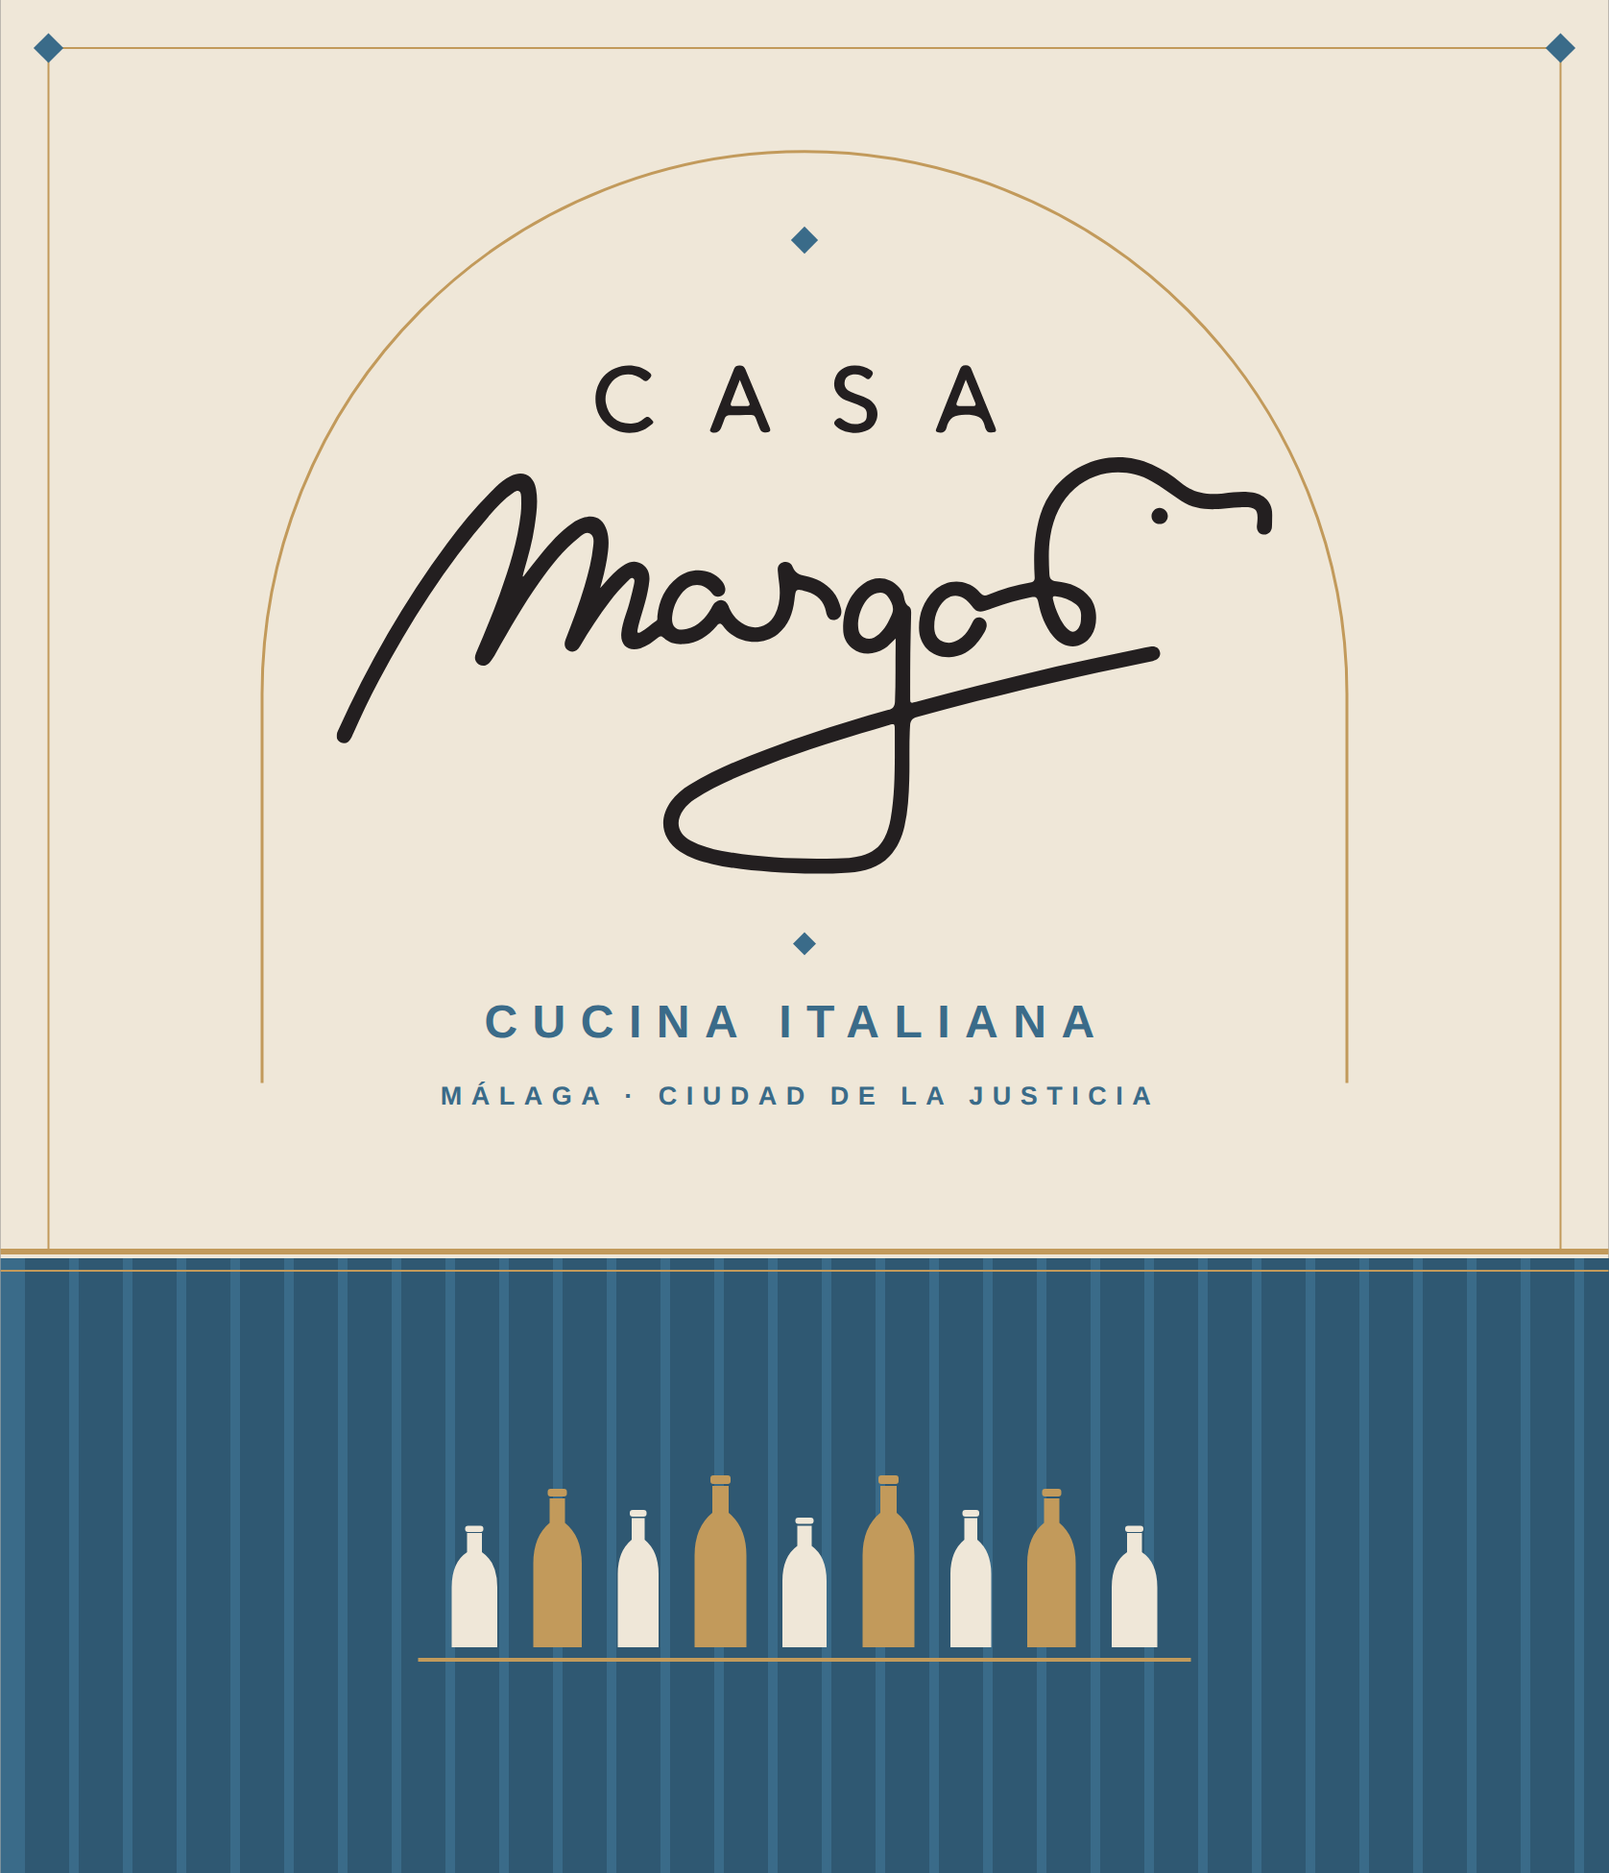
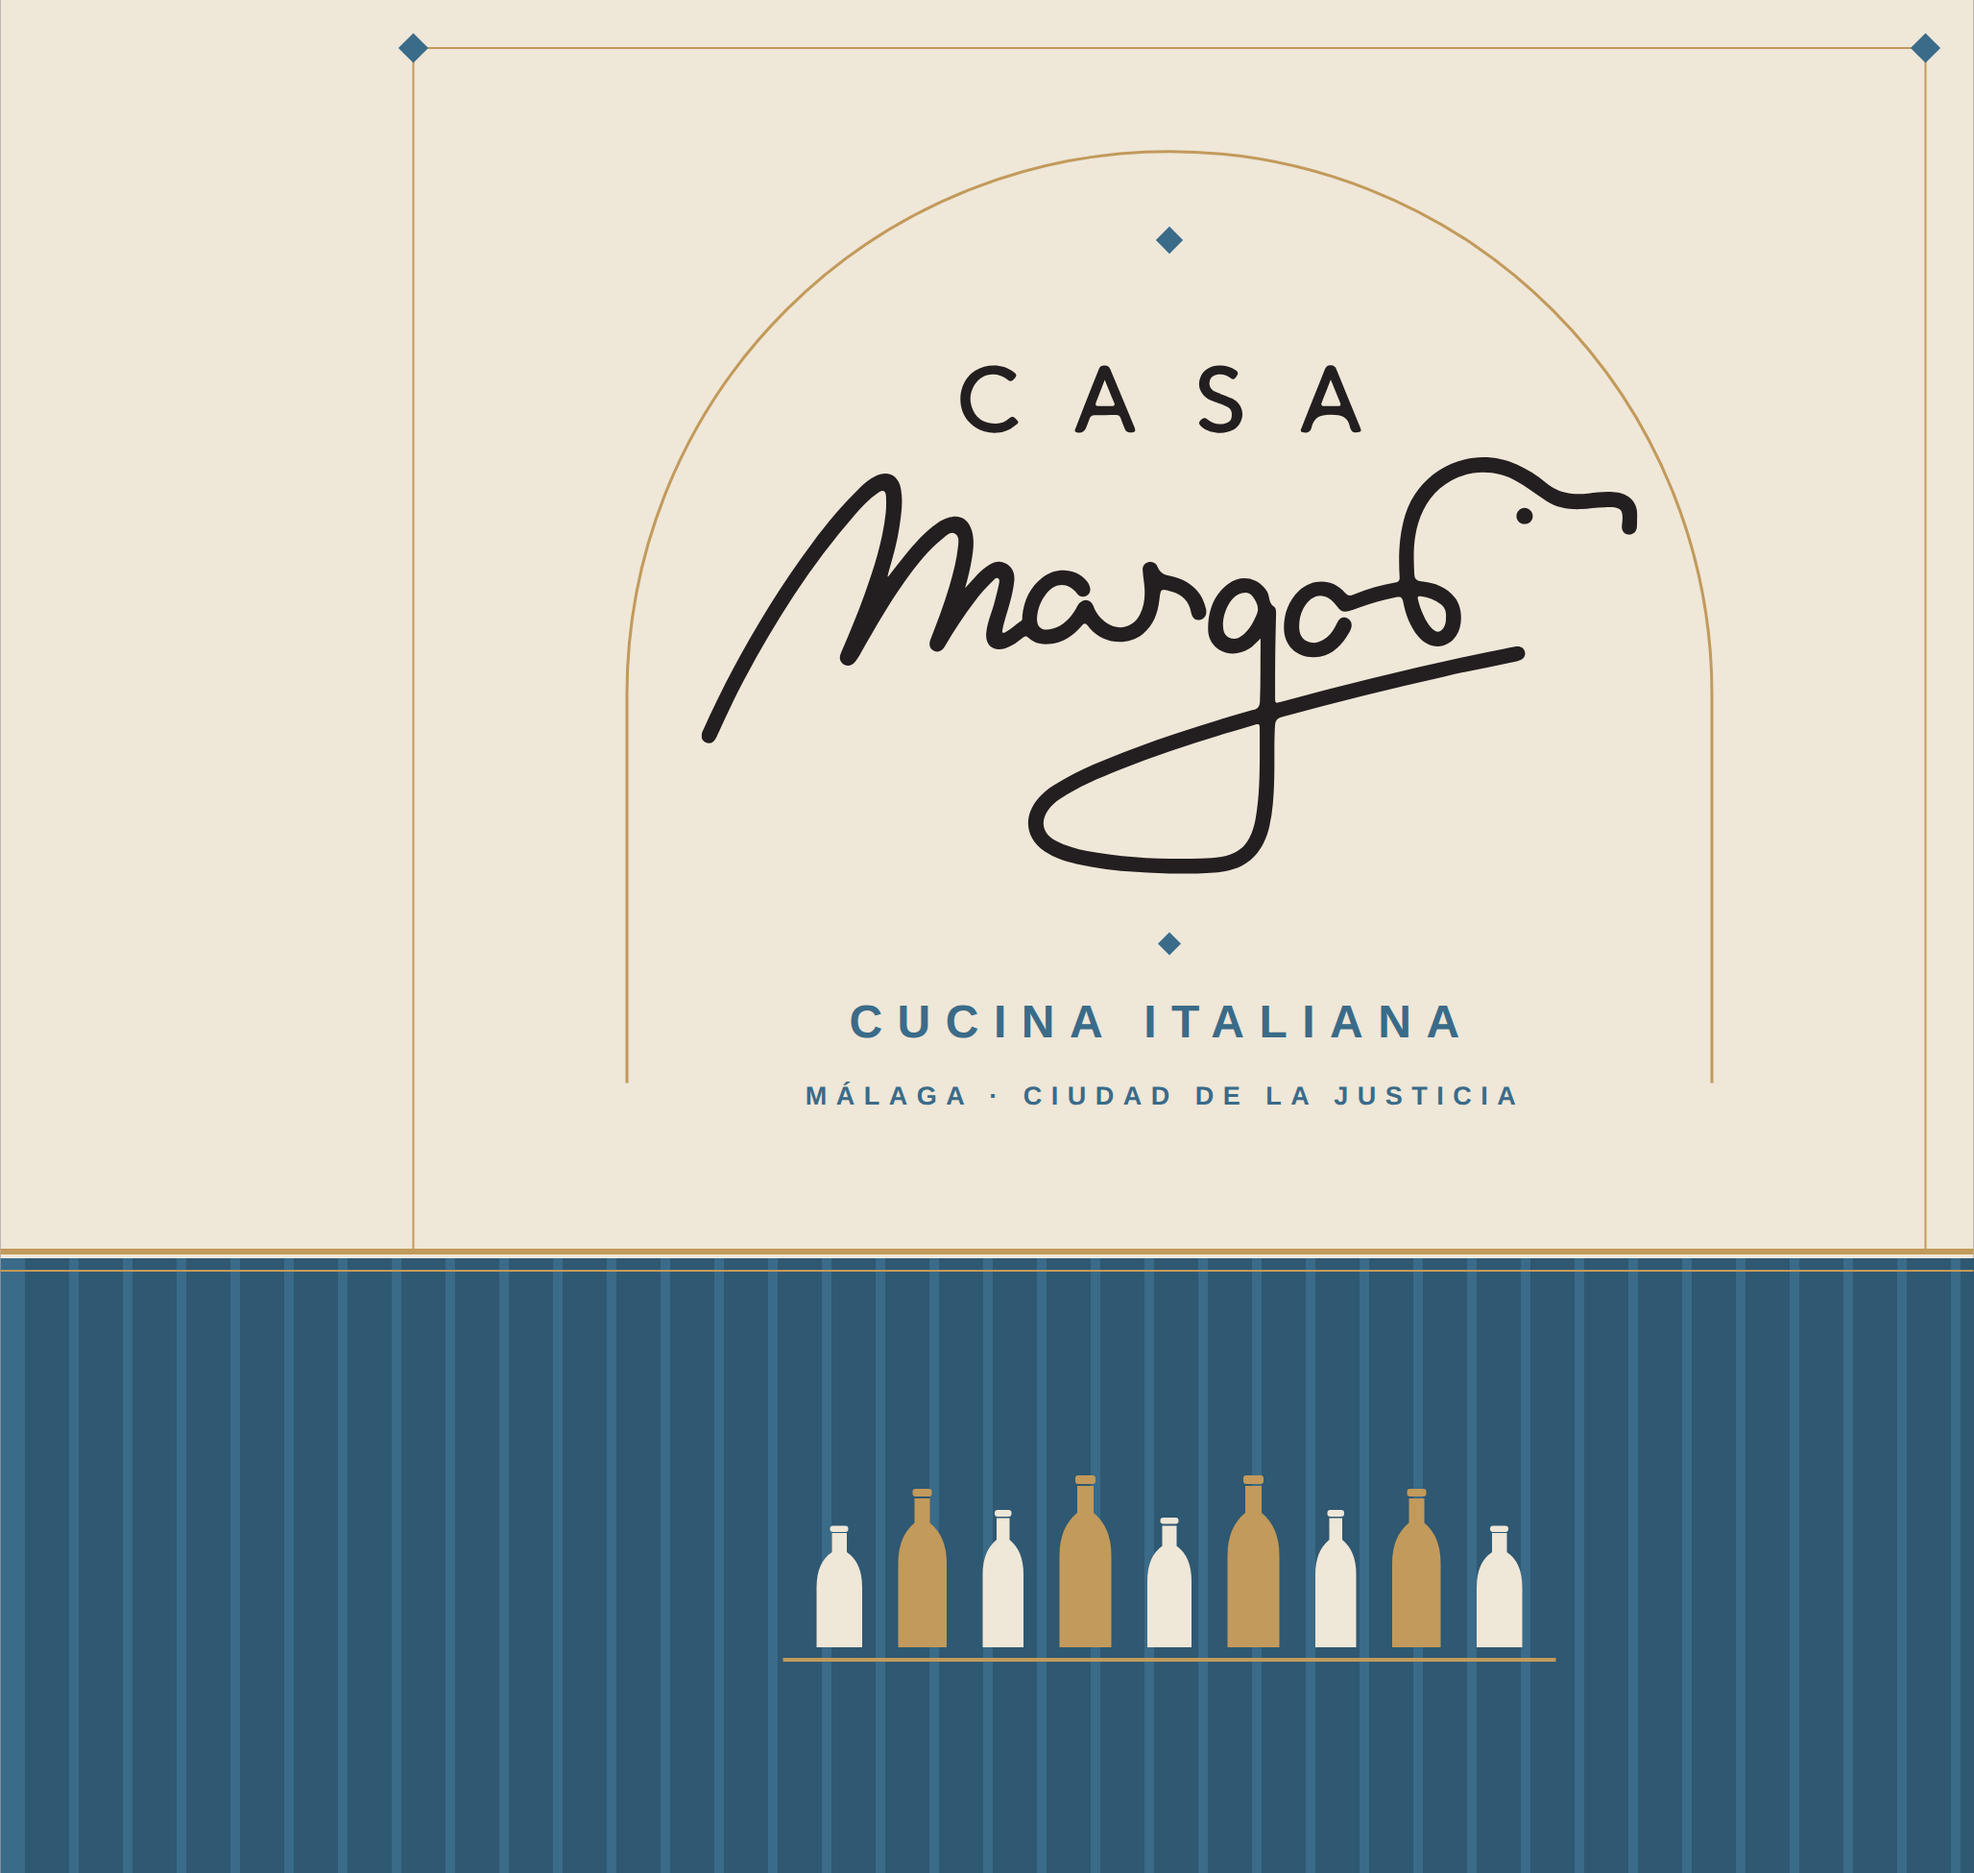
Plotter: las tres propuestas cubren ya toda la pizarra
La pared continua por detras de la escalera hasta el borde izquierdo y
alli seguia asomando piedra. El lienzo pasa de 3350 a 4110 mm: 760 mm de
sangrado de campo a la izquierda donde continuan fondo, veta de listones,
zocalo y rieles, mientras la composicion queda anclada al pano principal
de 3350 x 3900 visible entre la balaustrada y la esquina.

Claude-Session: https://claude.ai/code/session_01GVkjTdfNcVVYYVU9z9WU8K

diff --git a/docs/pared/build_variantes.py b/docs/pared/build_variantes.py
@@ -7,6 +7,8 @@ LATON = '#C29A5B'
 AZUL  = '#3A6B89'
 AZUL2 = '#2F5872'    # azul mas profundo, para vetas y listones
 W, H  = 3350, 3900
+IZQ   = 760          # sangrado de campo hacia la izquierda
+W2    = W + IZQ
 CX    = W / 2
 SP    = os.path.dirname(os.path.abspath(__file__))
 
@@ -55,9 +57,10 @@ def texto(y, t, color, fs, ls, dx=0):
             f'font-size="{fs}" letter-spacing="{ls}">{t}</text>')
 
 def abrir(fondo):
-    return [f'''<svg xmlns="http://www.w3.org/2000/svg" viewBox="0 0 {W} {H}"
-  width="{W//10}mm" height="{H//10}mm">
-<rect x="0" y="0" width="{W}" height="{H}" fill="{fondo}"/>''']
+    return [f'''<svg xmlns="http://www.w3.org/2000/svg" viewBox="0 0 {W2} {H}"
+  width="{W2//10}mm" height="{H//10}mm">
+<rect x="0" y="0" width="{W2}" height="{H}" fill="{fondo}"/>
+<g transform="translate({IZQ},0)">''']
 
 # ================================================= A. GALLERIA (crema total)
 p = abrir(CREMA)
@@ -75,13 +78,13 @@ p.append(f'<line x1="{CX-560}" y1="2560" x2="{CX-80}" y2="2560" stroke="{LATON}"
 p.append(f'<line x1="{CX+80}" y1="2560" x2="{CX+560}" y2="2560" stroke="{LATON}" stroke-width="5"/>')
 p.append(rombo(CX, 2560, 36, LATON))
 p.append(botellero([AZUL, LATON, AZUL2, AZUL, LATON, AZUL, AZUL2, LATON, AZUL], base=3420, escala=1.18))
-p.append('</svg>')
+p.append('</g></svg>')
 open(f'{SP}/pared_A.svg', 'w').write('\n'.join(p))
 
 # ============================================ B. MEDALLONE (azul total)
 p = abrir(AZUL)
 # veta de listones sutiles sobre el azul (raya profunda cada 140 mm)
-for i in range(1, 24):
+for i in range(-5, 24):
     x = i * 140
     p.append(f'<line x1="{x}" y1="0" x2="{x}" y2="{H}" stroke="{AZUL2}" stroke-width="7"/>')
 p.append(f'<rect x="100" y="100" width="{W-200}" height="{H-200}" fill="none" stroke="{LATON}" stroke-width="5"/>')
@@ -101,20 +104,20 @@ p.append(rombo(CX, 2085, 34, AZUL))
 p.append(texto(2290, 'CUCINA ITALIANA', AZUL, 96, 31, -16))
 p.append(texto(2430, 'MÁLAGA · CIUDAD DE LA JUSTICIA', AZUL, 56, 20, -10))
 p.append(botellero([CREMA, LATON, CREMA, LATON, CREMA, LATON, CREMA, LATON, CREMA], base=3450, escala=1.05))
-p.append('</svg>')
+p.append('</g></svg>')
 open(f'{SP}/pared_B.svg', 'w').write('\n'.join(p))
 
 # ========================================= C. BOTTEGA (zocalo de listones)
 p = abrir(CREMA)
 ZY = 2620                                     # arranque del zocalo
-p.append(f'<rect x="0" y="{ZY}" width="{W}" height="{H-ZY}" fill="{AZUL}"/>')
+p.append(f'<rect x="{-IZQ}" y="{ZY}" width="{W2}" height="{H-ZY}" fill="{AZUL}"/>')
 paso, listn = 112, 92                         # listones verticales del zocalo
-x = (W % paso) / 2
+x = (W % paso) / 2 - IZQ
 while x < W:
     p.append(f'<rect x="{x:.0f}" y="{ZY}" width="{listn}" height="{H-ZY}" fill="{AZUL2}"/>')
     x += paso
-p.append(f'<line x1="0" y1="{ZY-14}" x2="{W}" y2="{ZY-14}" stroke="{LATON}" stroke-width="12"/>')
-p.append(f'<line x1="0" y1="{ZY+26}" x2="{W}" y2="{ZY+26}" stroke="{LATON}" stroke-width="4"/>')
+p.append(f'<line x1="{-IZQ}" y1="{ZY-14}" x2="{W}" y2="{ZY-14}" stroke="{LATON}" stroke-width="12"/>')
+p.append(f'<line x1="{-IZQ}" y1="{ZY+26}" x2="{W}" y2="{ZY+26}" stroke="{LATON}" stroke-width="4"/>')
 # zona crema superior
 p.append(f'<path fill="none" stroke="{LATON}" stroke-width="4" '
          f'd="M 100 {ZY-14} L 100 100 L {W-100} 100 L {W-100} {ZY-14}"/>')
@@ -130,7 +133,7 @@ p.append(texto(2160, 'CUCINA ITALIANA', AZUL, 96, 31, -16))
 p.append(texto(2300, 'MÁLAGA · CIUDAD DE LA JUSTICIA', AZUL, 54, 19, -9))
 # botellas crema y laton sobre los listones del zocalo
 p.append(botellero([CREMA, LATON, CREMA, LATON, CREMA, LATON, CREMA, LATON, CREMA], base=3430, escala=1.1))
-p.append('</svg>')
+p.append('</g></svg>')
 open(f'{SP}/pared_C.svg', 'w').write('\n'.join(p))
 
 for v in 'ABC':
